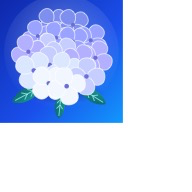
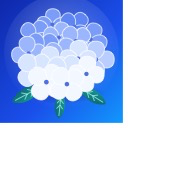
Иконка: гортензия только в голубых тонах, задние цветки плотнее (версия 19)

diff --git a/sw.js b/sw.js
@@ -1,6 +1,6 @@
 // Офлайн-кэш приложения. При изменении файлов увеличьте версию.
-const CACHE = 'monetka-v18';
-const FILES = ['./', 'index.html', 'styles.css?v=18', 'app.js?v=18', 'manifest.webmanifest', 'icons/icon-180.png', 'icons/icon-192.png', 'icons/icon-512.png'];
+const CACHE = 'monetka-v19';
+const FILES = ['./', 'index.html', 'styles.css?v=19', 'app.js?v=19', 'manifest.webmanifest', 'icons/icon-180.png', 'icons/icon-192.png', 'icons/icon-512.png'];
 
 self.addEventListener('install', e => {
   e.waitUntil(caches.open(CACHE).then(c => c.addAll(FILES.map(f => new Request(f, { cache: 'reload' })))).then(() => self.skipWaiting()));

diff --git a/index.html b/index.html
@@ -14,11 +14,11 @@
   <link rel="manifest" href="manifest.webmanifest">
   <link rel="apple-touch-icon" href="icons/icon-180.png">
   <link rel="icon" type="image/png" href="icons/icon-192.png">
-  <link rel="stylesheet" href="styles.css?v=18">
+  <link rel="stylesheet" href="styles.css?v=19">
 </head>
 <body>
   <div id="app"></div>
   <input type="file" id="importFile" accept="application/json,.json" hidden>
-  <script src="app.js?v=18"></script>
+  <script src="app.js?v=19"></script>
 </body>
 </html>

diff --git a/app.js b/app.js
@@ -1,6 +1,6 @@
 'use strict';
 
-const APP_VERSION = 18;
+const APP_VERSION = 19;
 
 /* ================= Data ================= */
 

diff --git a/tools/make_icon.py b/tools/make_icon.py
@@ -31,7 +31,7 @@ def floret(x, y, s, rot, fill, center):
     out = ''
     for i in range(4):
         out += (f'<path d="{PETAL}" transform="translate({f(x)} {f(y)}) rotate({f(rot + i * 90)}) scale({f(s)})" '
-                f'fill="{fill}" stroke="#fff" stroke-opacity=".75" stroke-width="{f(1.2 / s)}" stroke-linejoin="round"/>')
+                f'fill="{fill}" stroke="#fff" stroke-opacity=".85" stroke-width="{f(1.2 / s)}" stroke-linejoin="round"/>')
     return out + f'<circle cx="{f(x)}" cy="{f(y)}" r="{f(s * .13)}" fill="{center}"/>'
 
 
@@ -61,7 +61,8 @@ def leaf(x, y, ln, rot):
 
 
 def icon_svg():
-    pal = ['#7f8ff0', '#9aa3ff', '#b3b0ff', '#c6cdff', '#dbe6ff', '#f2f6ff']  # от дальних к ближним
+    # только голубые оттенки, от дальних (насыщенные, плотные) к ближним (почти белые)
+    pal = ['#5f86f2', '#7b9df8', '#9bb6fc', '#bacdff', '#d8e5ff', '#f3f7ff']
     return f'''<svg xmlns="http://www.w3.org/2000/svg" viewBox="0 0 180 180" width="180" height="180">
 <defs>
 <linearGradient id="bg" x1="0" y1="0" x2="1" y2="1"><stop offset="0" stop-color="#0e28aa"/><stop offset=".55" stop-color="#1a4fea"/><stop offset="1" stop-color="#10a4ff"/></linearGradient>
@@ -72,7 +73,7 @@ def icon_svg():
 <rect width="180" height="180" fill="url(#bg)"/><circle cx="90" cy="76" r="84" fill="url(#hl)"/>
 <ellipse cx="92" cy="136" rx="62" ry="16" fill="url(#sh)"/>
 {leaf(62, 126, 50, 152)}{leaf(116, 128, 46, 32)}{leaf(90, 134, 40, 96)}
-{cluster(90, 80, 50, 23, pal, '#6a6fd8')}
+{cluster(90, 80, 50, 11, pal, '#4f6fdc')}
 </svg>
 '''
 

diff --git a/docs/ARCHITECTURE.md b/docs/ARCHITECTURE.md
@@ -12,7 +12,7 @@
 | `app.js` | вся логика и отрисовка (обычный скрипт, без модулей) |
 | `styles.css` | стили; тема «Морозный фарфор» (кобальт и небесно-голубой, узоры гжели): цвета — CSS-переменные на `:root` (`--hero` — градиент ярких карточек, `--orn` — цвет узоров, `--serif` — шрифт заголовков); оранжевая — `data-accent="orange"`; тёмная — `prefers-color-scheme` и `data-theme` |
 | `sw.js` | service worker: сначала сеть (`cache: 'no-store'`), без сети — кэш; при новой версии страница перезагружается сама |
-| `manifest.webmanifest`, `icons/` | установка на экран «Домой»; иконка — голубая гортензия (`icons/icon.svg` → PNG) |
+| `manifest.webmanifest`, `icons/` | установка на экран «Домой»; иконка — голубая гортензия только в голубых тонах (`icons/icon.svg` → PNG) |
 | `tools/` | `make_icon.py` рисует `icons/icon.svg`, `render_icons.sh` делает из него PNG 180/192/512 (macOS) |
 | `server/` | сервер синхронизации (Python, без зависимостей) и файлы для установки — см. `server/README.md` |
 
